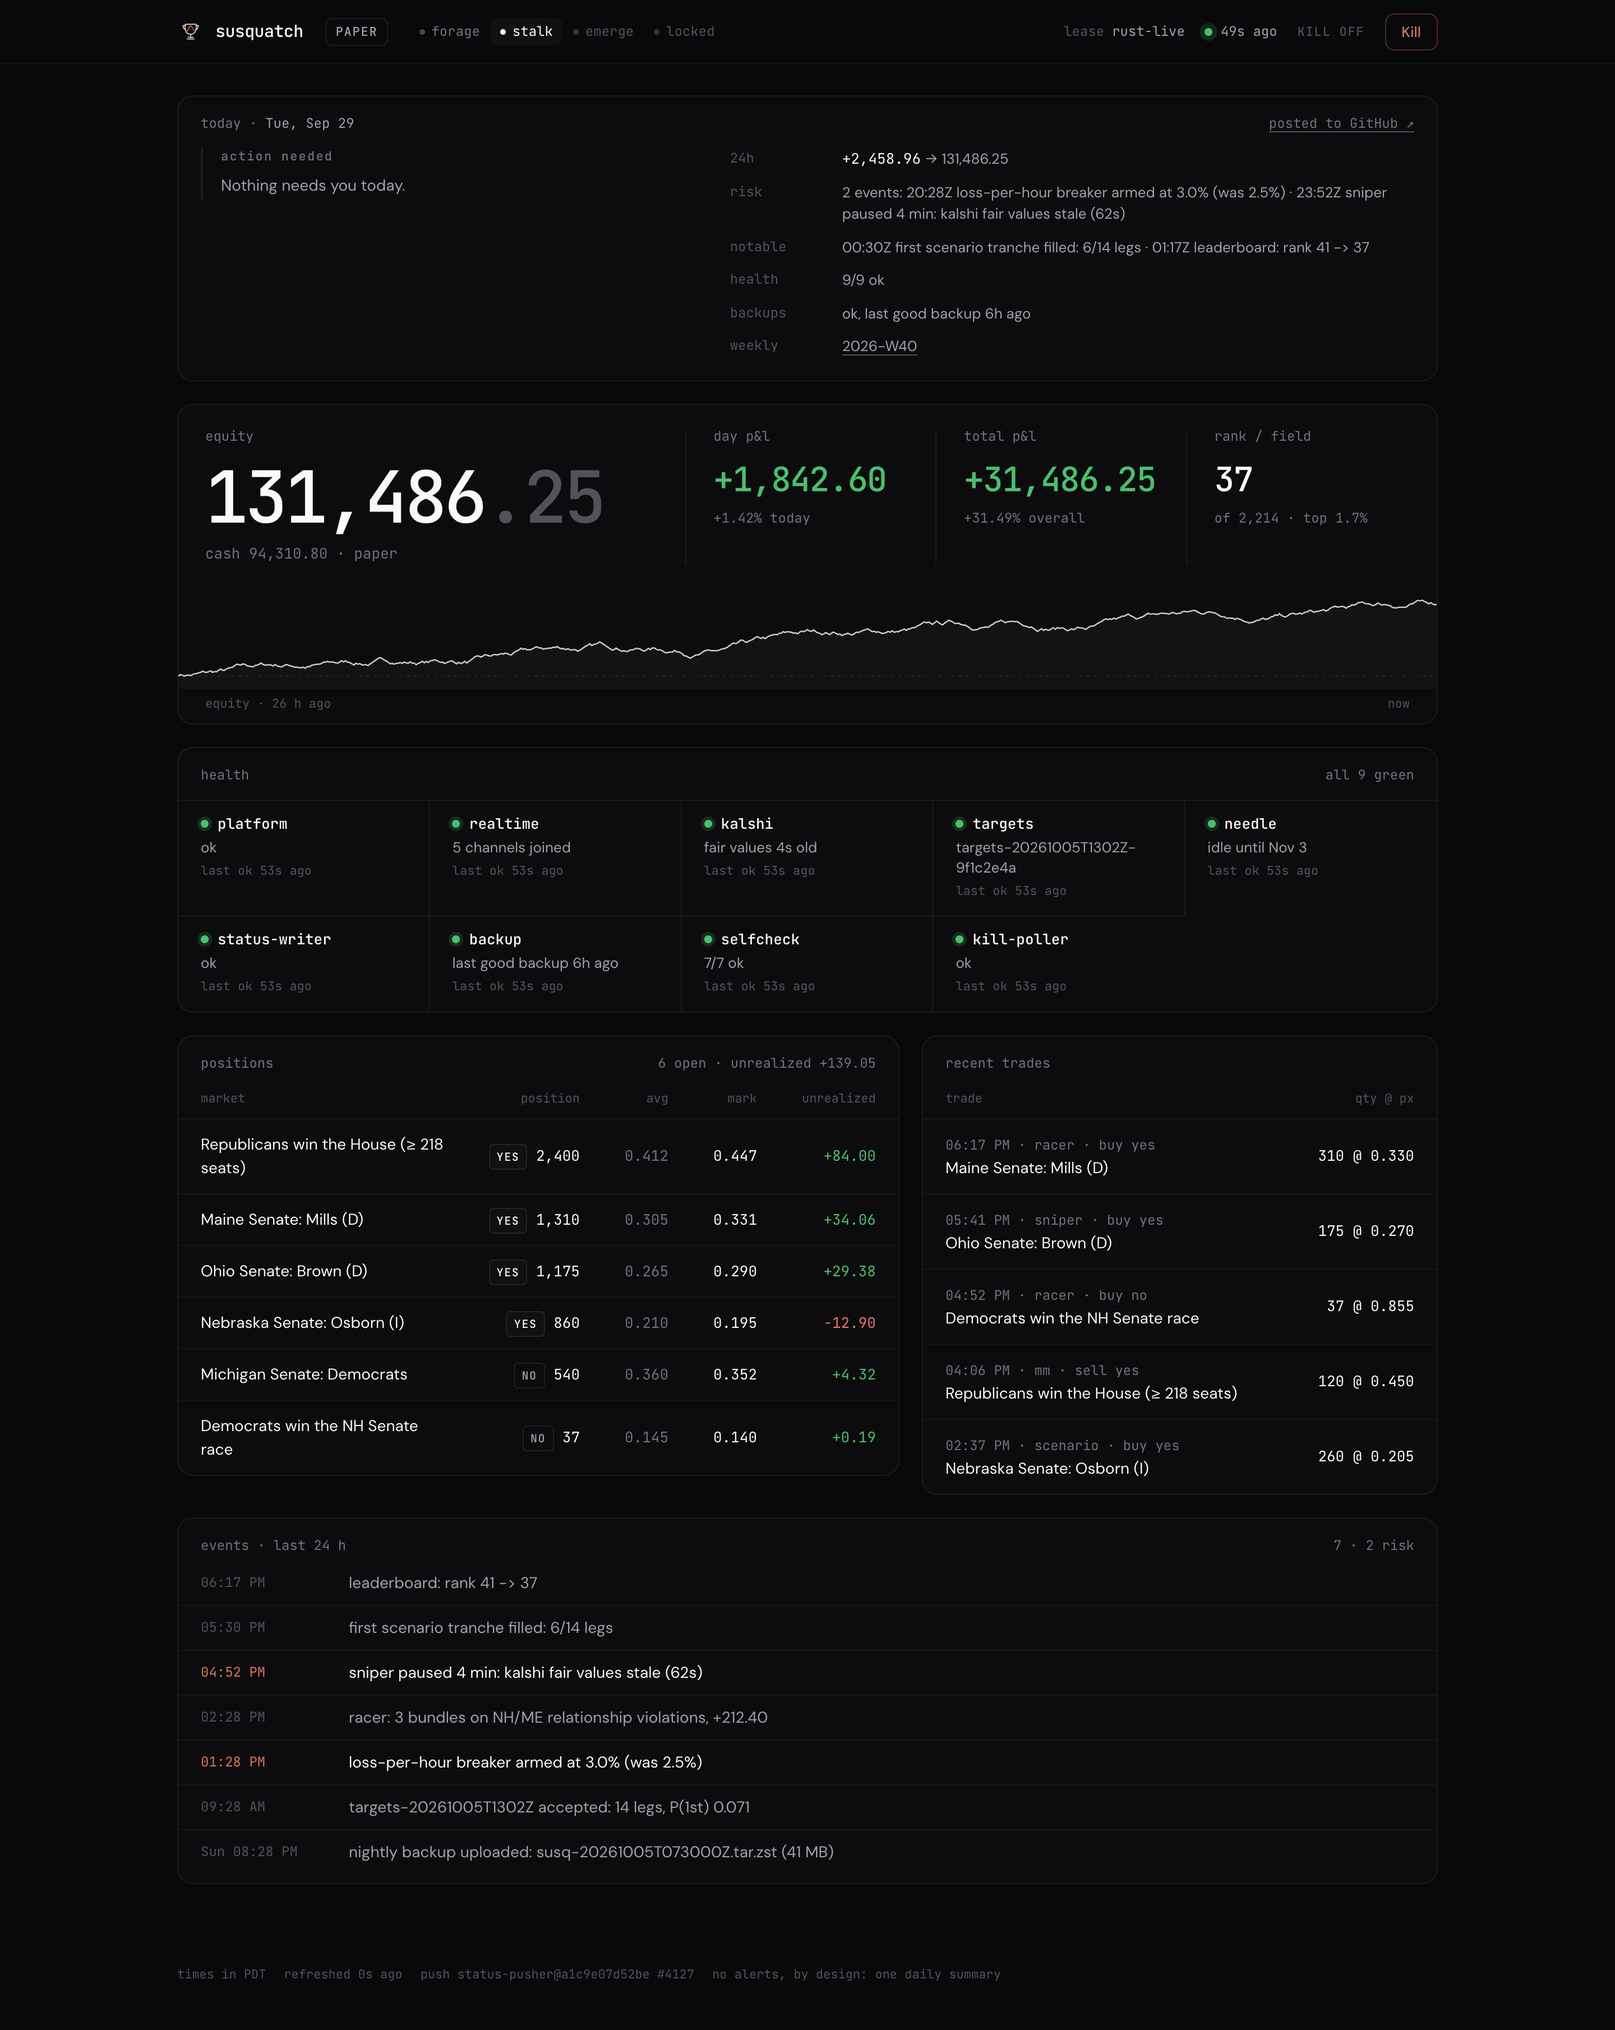
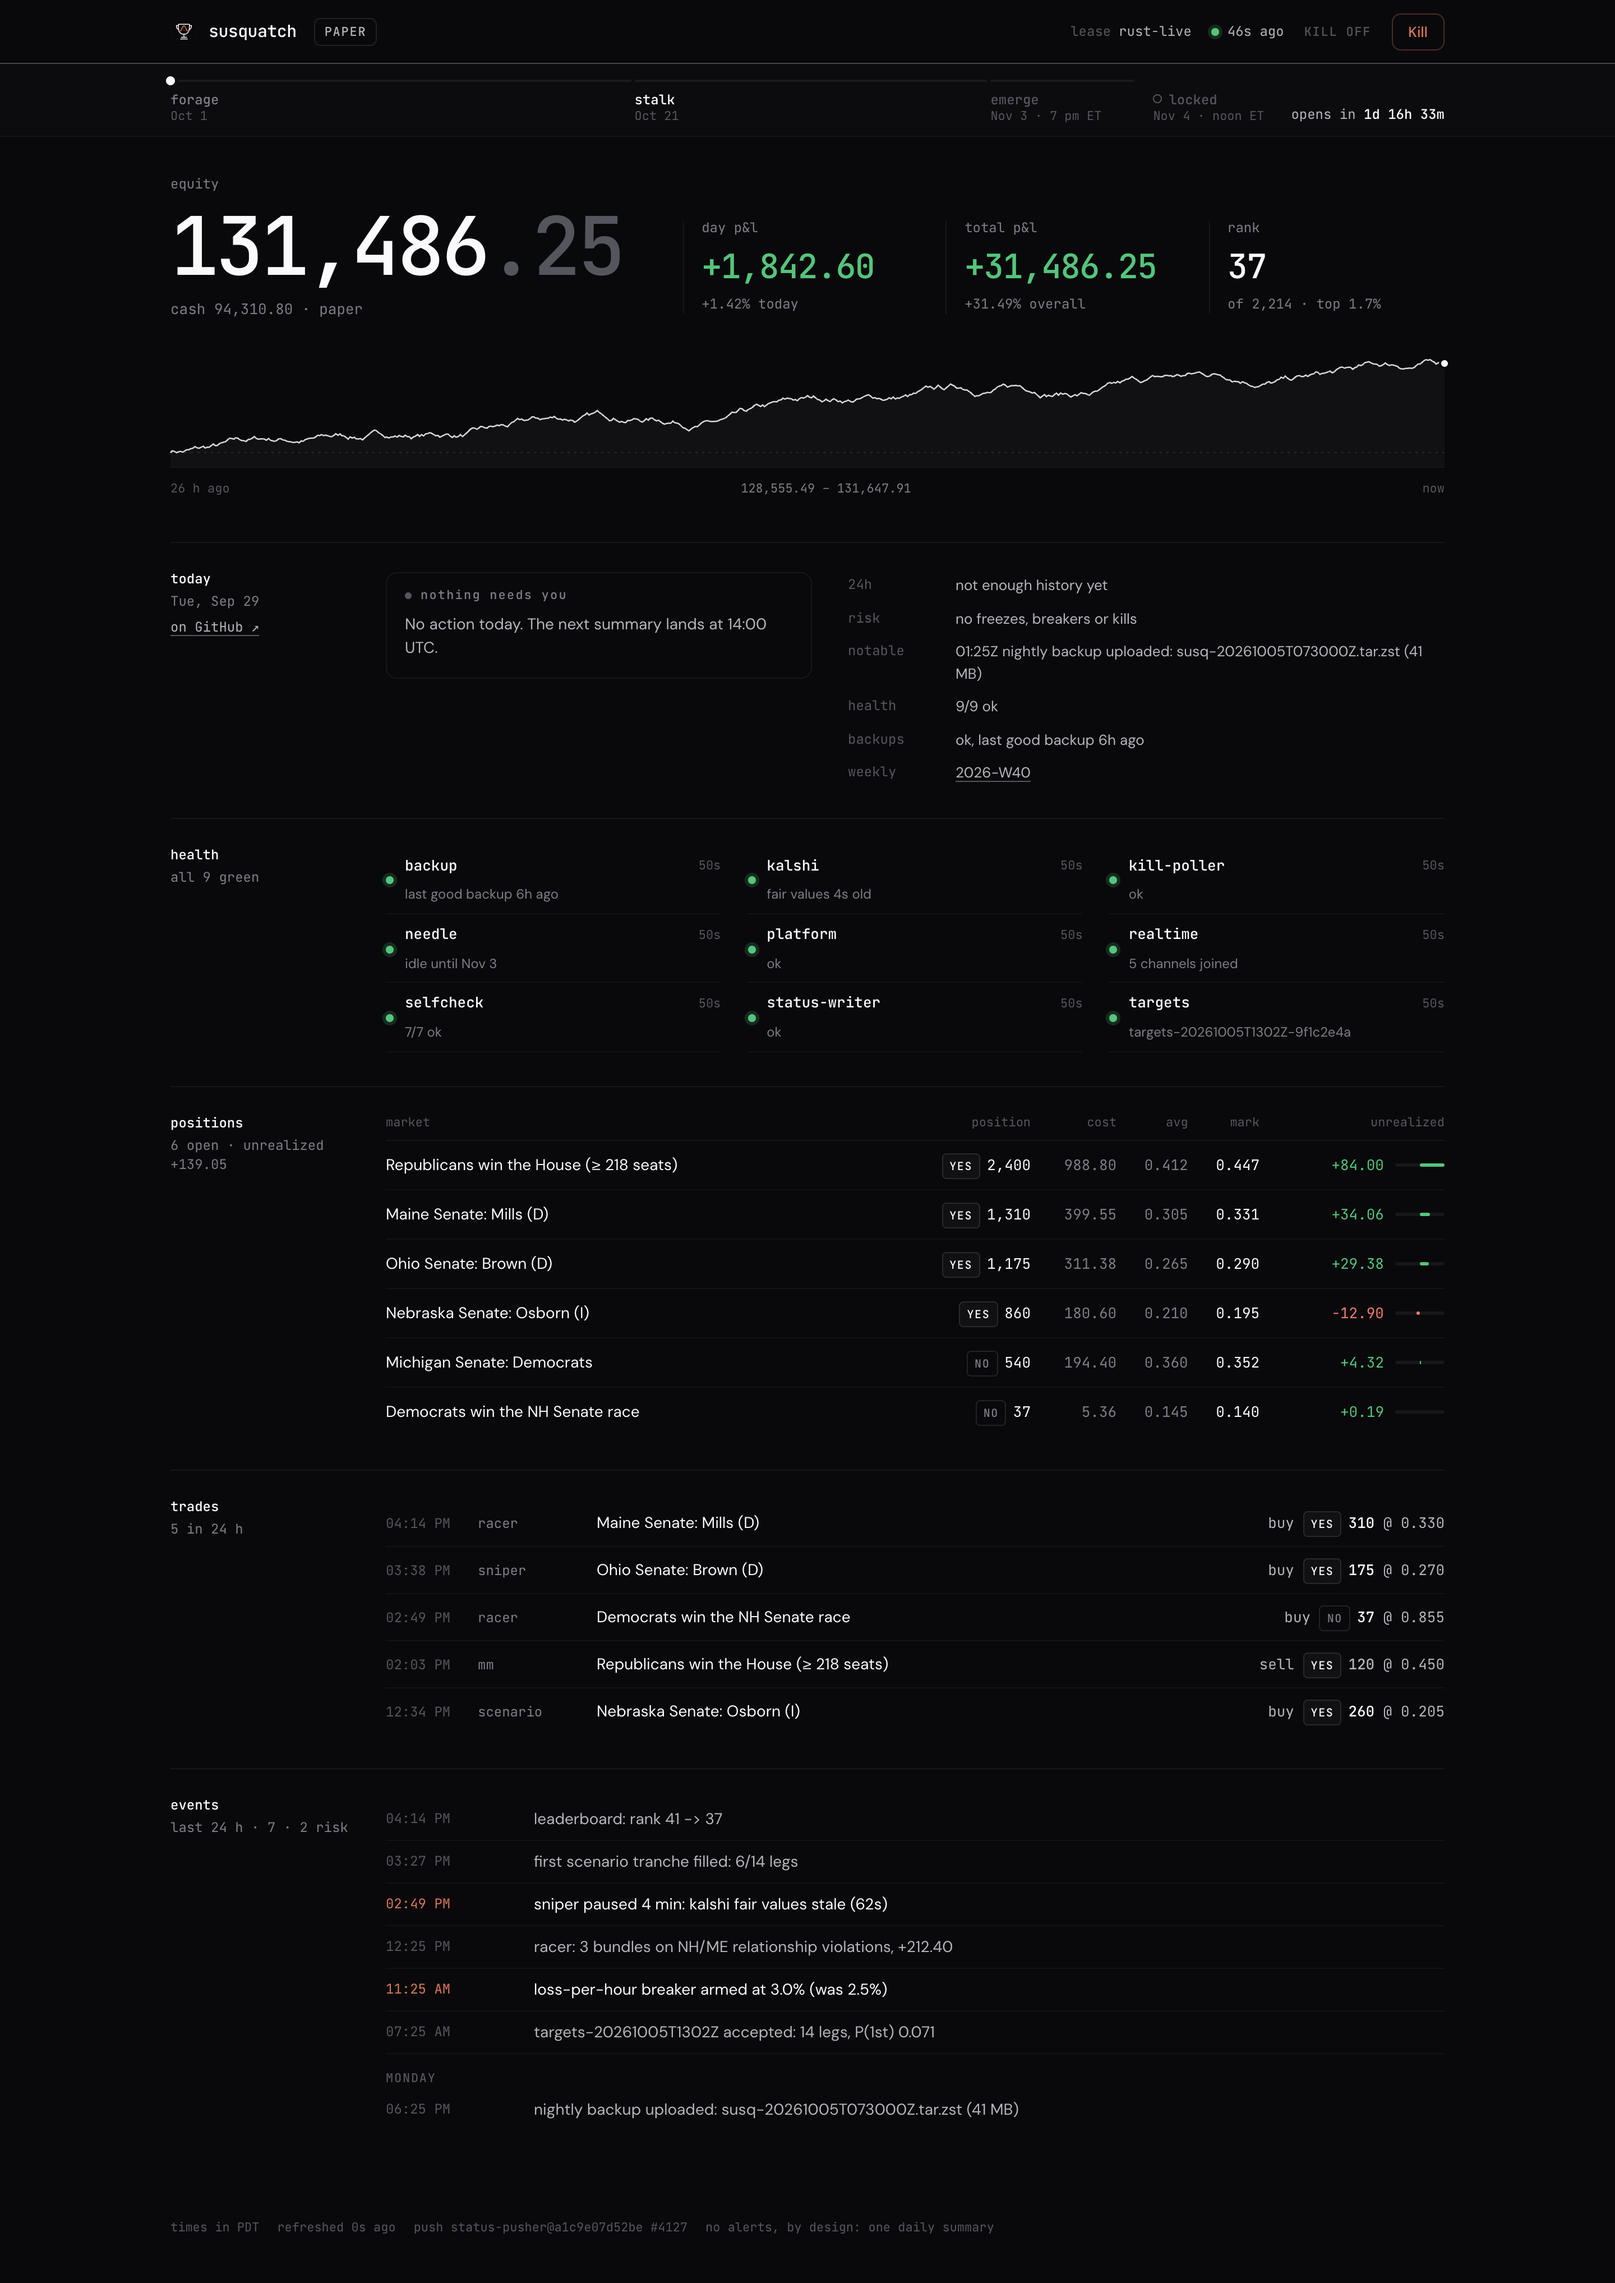
Refresh dashboard screenshots and describe the redesign

diff --git a/docs/OPS.md b/docs/OPS.md
@@ -205,7 +205,7 @@ which runs on Cloudflare, reports "server silent since …" the next morning.
   self-check / poller health, open ACTION NEEDED items) and pushes every 150 s (120 s in the election window). One push
   = **one KV write** of the `status` record: latest snapshot, a ~30 h equity history for the sparkline, and a ring of
   timestamped events.
-- **Kill.** Dashboard → two-step dialog with a reason → `kill` KV flag. The kill poller (10 s) writes `ops/KILL`, and every
+- **Kill.** Dashboard → dialog with a written reason, then a press-and-hold → `kill` KV flag. The kill poller (10 s) writes `ops/KILL`, and every
   gateway checks it before every write: cancel-all, then freeze. Typical latency is seconds; worst case is roughly
   10 s poll + KV's ~60 s global propagation. **`touch ops/KILL` over SSH is instant and always works.**
   The poller never deletes `ops/KILL`, and the browser cannot un-kill. **Un-kill = `make unkill` on the server**
@@ -263,4 +263,4 @@ The 2 OCPUs are shared with **calshi**, a separate project whose repo we don't e
 | Functions + Worker (auth, KV budget, kill, dead-man, GitHub) | `make dashboard-test` | 52 tests |
 | pusher → Functions → KV → poller → Worker cron, all real, all local | `make dashboard-dev` then `ops/tests/dashboard_e2e.sh` | 18 checks |
 | images build natively on aarch64; stack healthy; proxy permits only list + restart; watchdog heals then stops at 3 | `make up` under colima | by hand, 2026-09-28 |
-| dashboard visuals: normal, pending kill, killed, silent; desktop + phone | `npm run dev` + `node scripts/shots.mjs` | screenshots in `docs/img/` |
+| dashboard visuals: normal, pending kill, killed, silent; desktop + phone; hover scrub and mid-hold Kill | `npm run dev` + `node scripts/shots.mjs` (reduced motion, deterministic) | screenshots in `docs/img/`, reviewed 2026-09-29 |

diff --git a/README.md b/README.md
@@ -92,8 +92,13 @@ There are **no real-time alerts** by design. The system has to fail safe on its 
   <br><sub><i>Rendered from a synthetic status fixture. Every number here is demo data, not results.</i></sub>
 </p>
 
-A password-protected Cloudflare Pages site at `susquatch.pages.dev`: mode, stage, lease, heartbeat, equity, rank, health,
-positions, trades, events and a two-step **Kill**. If the server goes quiet, the page turns clay and says since when.
+A password-protected Cloudflare Pages site at `susquatch.pages.dev`, built like a ledger rather than a wall of cards: one
+column of numbers, a mono rail down the left, and hairlines between sections. Across the top runs the Cup's calendar,
+forage → stalk → emerge → locked, with a marker at *now* and a countdown to the lock. Equity tweens when it changes, the
+day's curve draws itself in and can be scrubbed, a hairline under the header fills up until the next poll, and the
+heartbeat dot rings when a fresh push lands. Clay is reserved for the three things a human must look at: **ACTION NEEDED**,
+*server silent since…*, and **Kill**, which takes a written reason and a press-and-hold. It is plain HTML, CSS and one
+module: no framework, no build, nothing rendered with `innerHTML`.
 Once a day a cron Worker, running on Cloudflare rather than the server, writes the summary (ACTION NEEDED first, usually
 empty) to the dashboard and to a pinned GitHub issue, so a dead server still gets reported. All of it costs $0, and
 `make costs` fails the build if that ever stops being true. See [`docs/OPS.md`](docs/OPS.md) and
